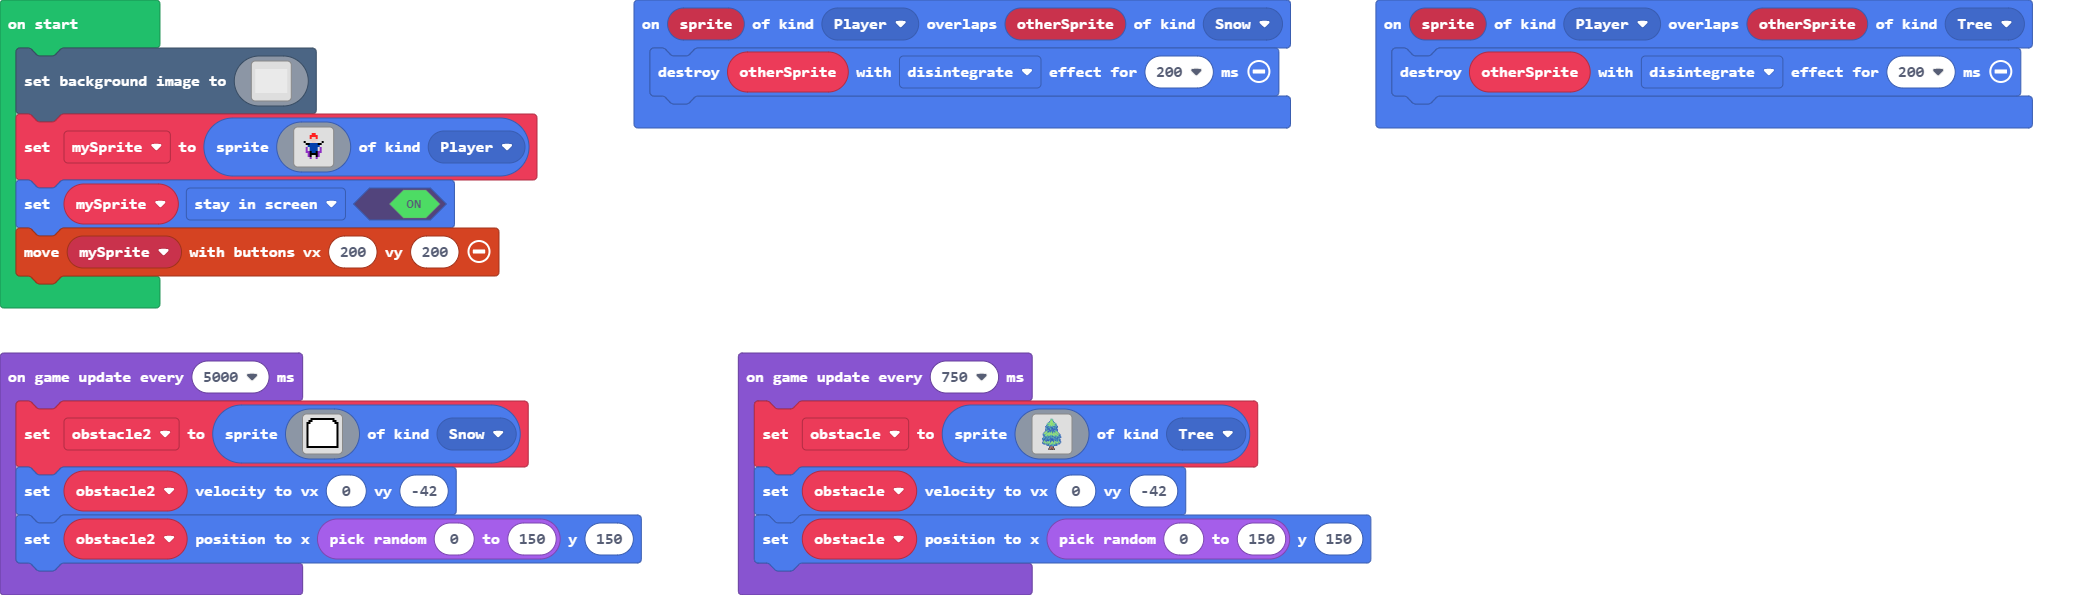
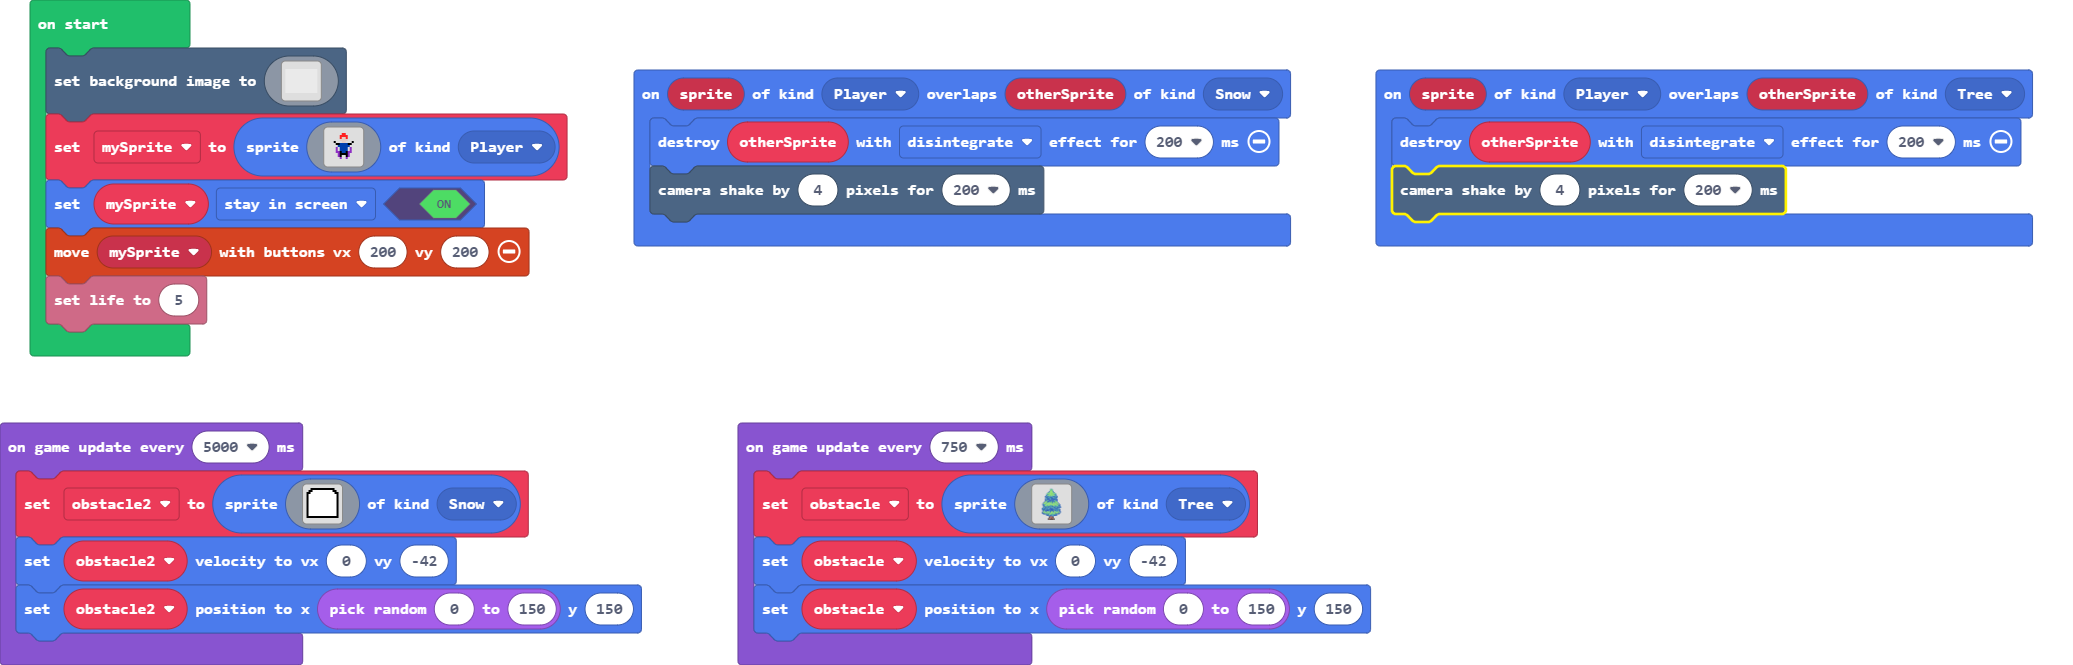
Update main.blocks, main.ts

diff --git a/main.ts b/main.ts
@@ -4,9 +4,11 @@ namespace SpriteKind {
 }
 sprites.onOverlap(SpriteKind.Player, SpriteKind.Snow, function (sprite, otherSprite) {
     otherSprite.destroy(effects.disintegrate, 200)
+    scene.cameraShake(4, 200)
 })
 sprites.onOverlap(SpriteKind.Player, SpriteKind.Tree, function (sprite, otherSprite) {
     otherSprite.destroy(effects.disintegrate, 200)
+    scene.cameraShake(4, 200)
 })
 let obstacle: Sprite = null
 let obstacle2: Sprite = null
@@ -152,6 +154,7 @@ let mySprite = sprites.create(img`
     `, SpriteKind.Player)
 mySprite.setFlag(SpriteFlag.StayInScreen, true)
 controller.moveSprite(mySprite, 200, 200)
+info.setLife(5)
 game.onUpdateInterval(5000, function () {
     obstacle2 = sprites.create(img`
         . . f f f f f f f f f f f f . . 
